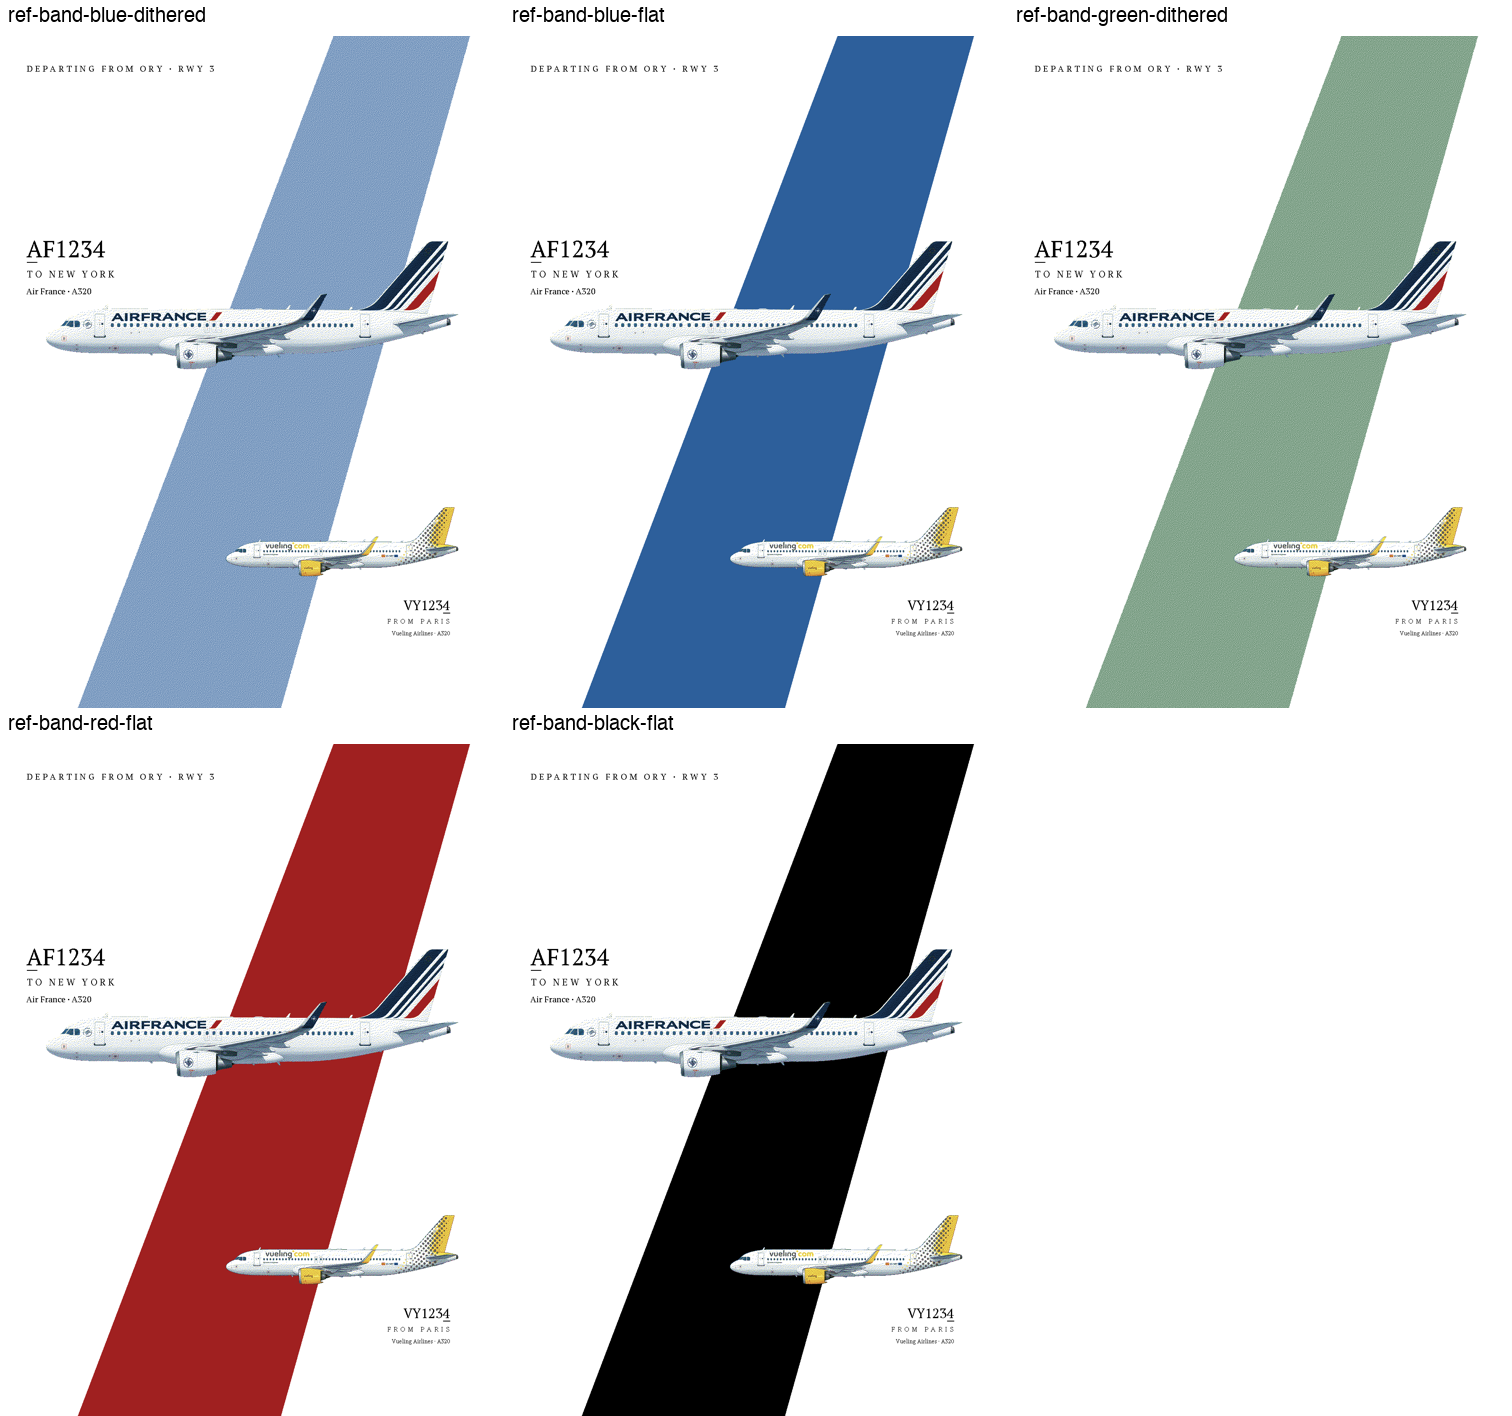
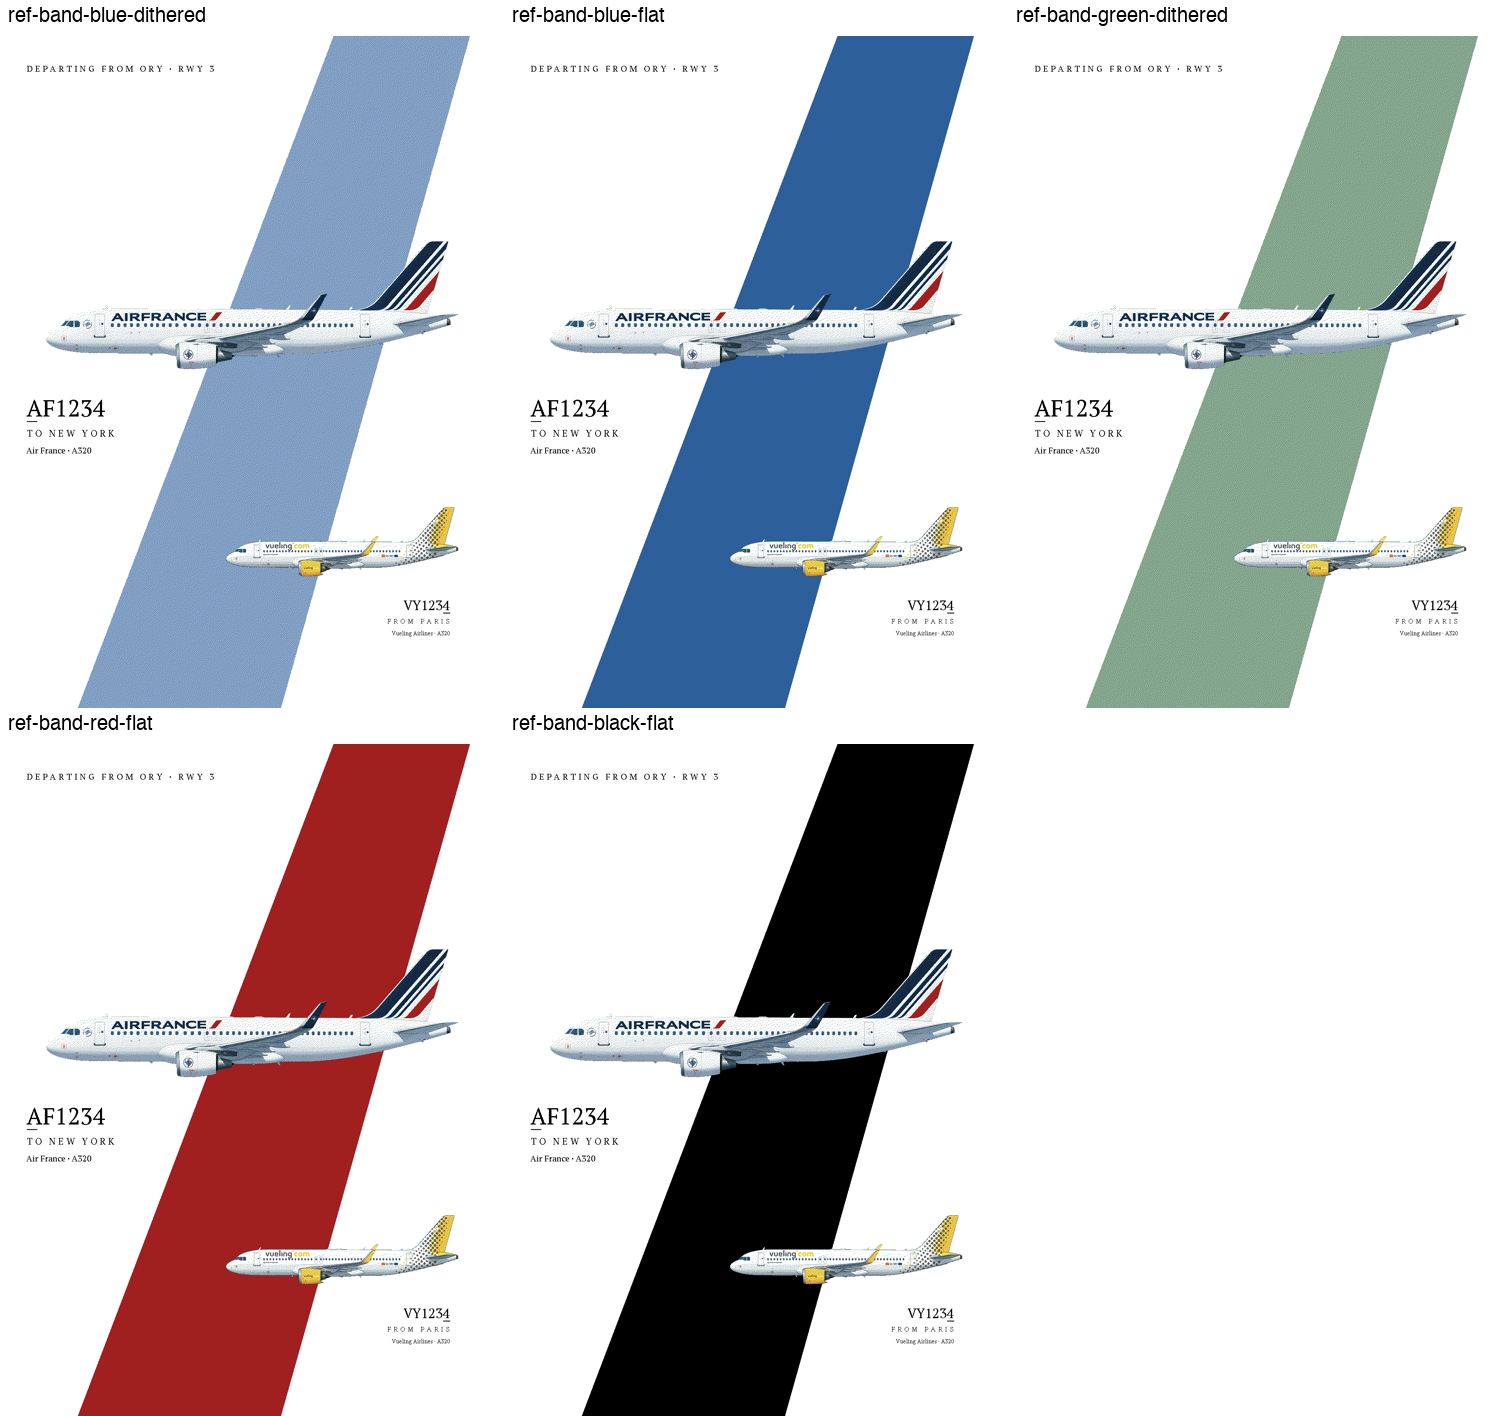
docs(spike-003): main card's text back below the aircraft
Round 7's merged top label freed the band to shift right, removing the
original reason (round 2) the main card's text moved above its
aircraft. Reverted to the real draw_main_text_block()'s own anchor
(content[3] + MAIN_TEXT_GAP_PX) - simpler than round 5's fuselage-
visual-top machinery, which was only needed for the top edge's
swept-tail-tip problem. Confirmed clear of the band on both the
blue-dithered and black-flat candidates.

diff --git a/.planning/spikes/003-diagonal-band-theme/explore_full_composition.py b/.planning/spikes/003-diagonal-band-theme/explore_full_composition.py
@@ -229,20 +229,16 @@ def patched_draw_main_text_block(canvas, flight, state, route, main_placement, i
     route_font = render._role_font(ROUTE_LINE_FONT, weight)
     airline_font = render._role_font(AIRLINE_LINE_FONT, weight)
 
-    # Measure pass (dry run at y=0) so the whole block's height is known
-    # before choosing where its top sits - text sits in the gap above the
-    # illustration instead of below it (developer's own fix for the band
-    # collision found in round 2): at that height range the shifted band
-    # (BAND_SHIFT_FRAC above) sits well clear of this left-anchored block.
-    total_h = 0
-    if number_text:
-        total_h += draw.textbbox((0, 0), number_text, font=num_font, anchor="la")[3] + DASH_GAP + 2 + DASH_GAP + 4
-    if tracked_text:
-        total_h += render._tracked_text_bbox(route_font, (0, 0), tracked_text, render.LABEL_TRACKING_PX)[3] + 12
-    total_h += draw.textbbox((0, 0), plain_text, font=airline_font, anchor="la")[3]
-
-    fuselage_top_y = _fuselage_visual_top_y(route, flight.get("aircraft_type"), main_placement)
-    y = fuselage_top_y - ABOVE_ILLUSTRATION_GAP_PX - total_h
+    # Round 8 (developer): back below the illustration, now that round 7's
+    # merged top label freed the band to shift right instead of left -
+    # checked the band's position at this text block's height range
+    # (~50-55% canvas height): it now spans ~39-73% width, well clear of
+    # this left-anchored block's ~5-30% extent. No collision to dodge
+    # anymore, so no need for round 2/5's above-illustration workaround
+    # (or its measure-before-place / fuselage-visual-top machinery) -
+    # this is the real production draw_main_text_block()'s own anchor,
+    # MAIN_TEXT_GAP_PX below the illustration's opaque bottom edge.
+    y = main_placement.content[3] + render.MAIN_TEXT_GAP_PX
     first_bbox = None
 
     if number_text:

diff --git a/.planning/spikes/003-diagonal-band-theme/README.md b/.planning/spikes/003-diagonal-band-theme/README.md
@@ -9,7 +9,7 @@ validates: |
   build_canvas() pipeline, then at least one reads well on a 6-colour
   e-ink panel, passes the real _assert_legal_palette() background-
   dominance guard rail, and does not collide with any text.
-verdict: PENDING - round 7 merges the top labels and shifts the band right instead of left, awaiting developer reaction
+verdict: PENDING - round 8 moves the main card's text back below the aircraft (safe now the band shifted right), awaiting developer reaction
 related: ["001-panel-theme-colours", "002-small-labels-and-white-rhythm"]
 tags: [render, theme, diagonal-band, layout, e-ink, palette-guard-rail]
 ---
@@ -284,6 +284,21 @@ ending at x=510 vs. the 1136px safe-box edge; arriving: 383px). No
 information lost - the developer's explicit call from earlier this
 session (D-13 precedent: no info drops silently) is upheld, "RWY 3"
 survives merged in, not removed.
+
+**Round 8 - main card's text moved back below the aircraft.** Now that
+round 7's merged top label freed the band to shift right instead of
+left, the original reason to move the main card's text above its
+aircraft (round 2's band-collision fix) no longer applies. Checked the
+band's position at the below-illustration text block's height range
+(~50-55% canvas height): it now spans ~39-73% width, clear of this
+left-anchored block's ~5-30% extent. Reverted to the real
+`draw_main_text_block()`'s own anchor (`main_placement.content[3] +
+MAIN_TEXT_GAP_PX`) - simpler than round 5's fuselage-visual-top
+machinery too, since the bottom edge never had the swept-tail-tip
+problem the top edge did (this is the same anchor the shipped production
+function has always used). Confirmed clear on both the blue-dithered and
+black-flat candidates - the two extremes (softest and hardest edge
+against the band) - with no collision on either.
 
 **Still open:**
 - This entire spike is screen-preview only, per this project's own D-13
